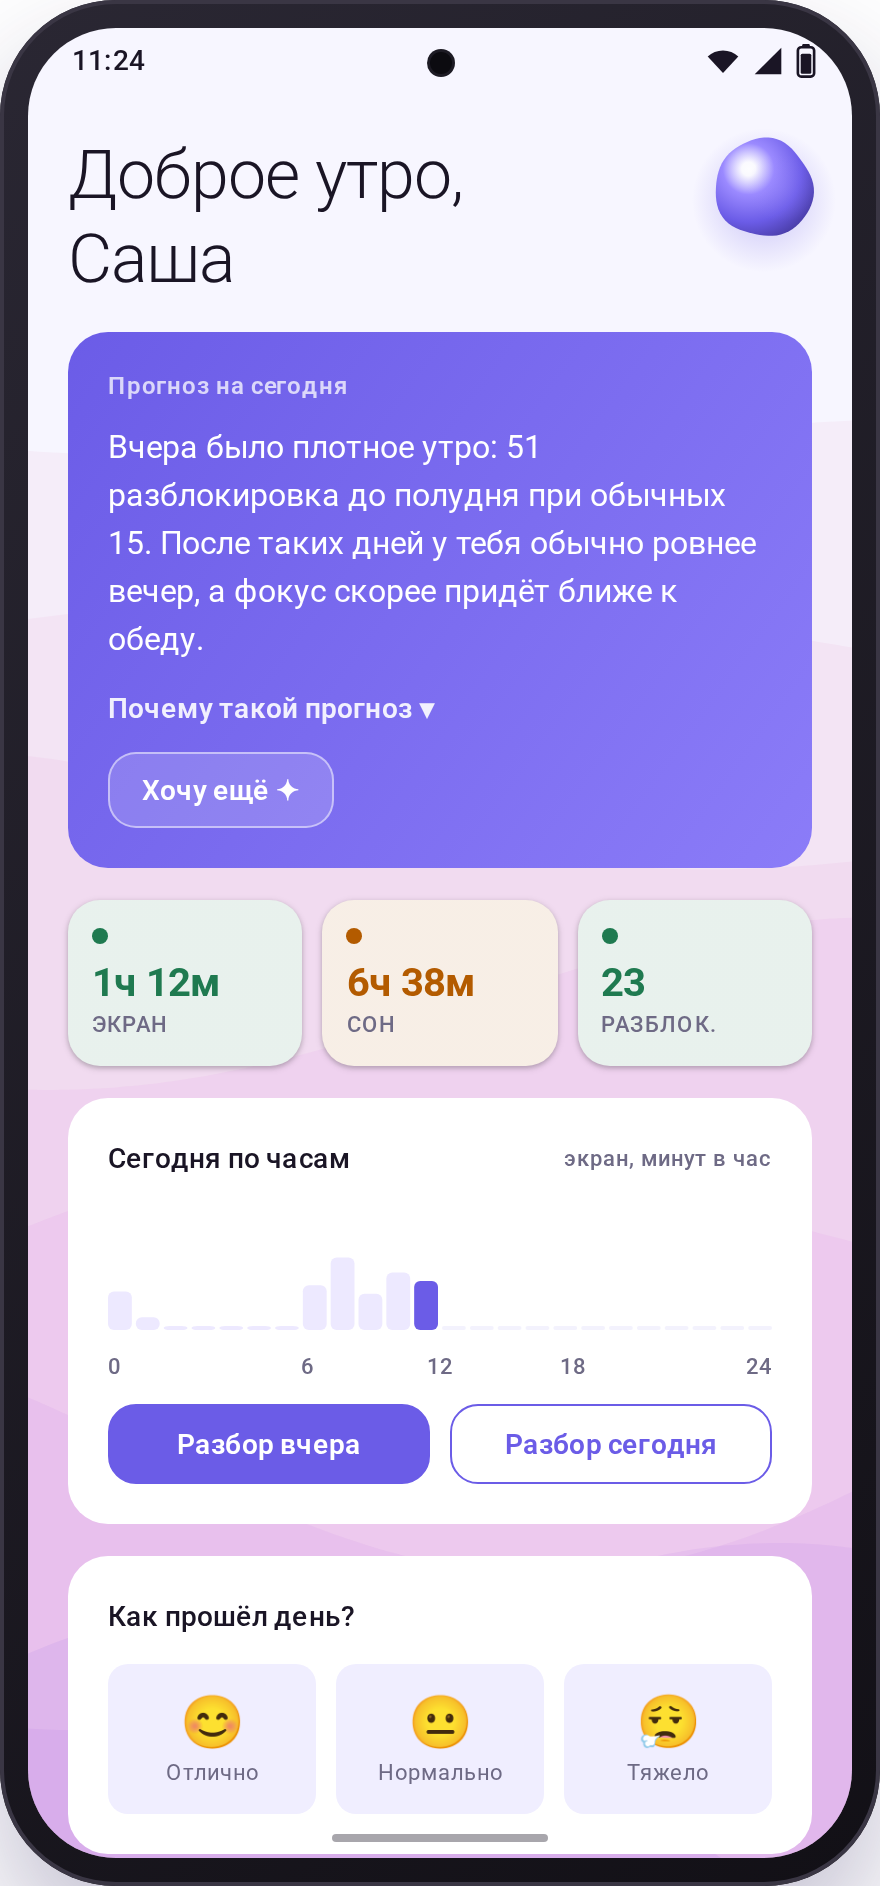
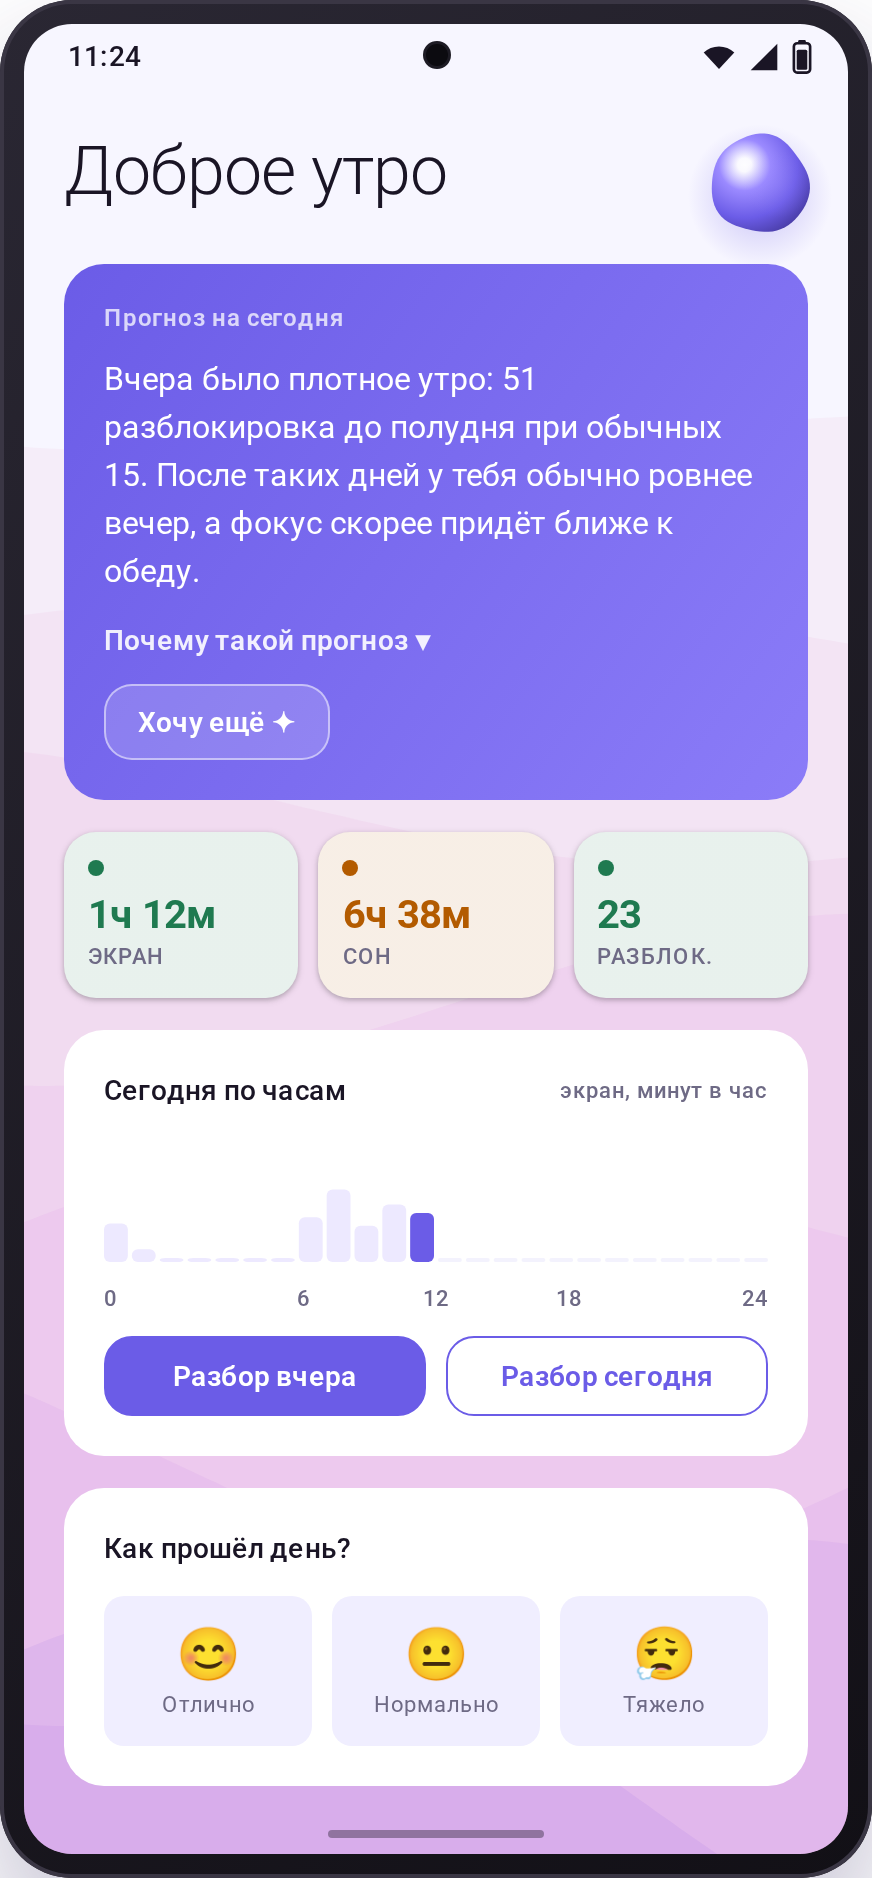
Landing: real-looking home screen instead of the SVG mock
- phone frame less rounded (36/24 px), greeting without a name
- index.html shows web/screens/home-phone.png (mock data only) at 260px

Changed region(s): [[0.0, 0.0, 1.0, 1.0], [0.4644, 0.0, 0.5264, 0.0618], [0.805, 0.0, 0.836, 0.0309]]

diff --git a/web/index.html b/web/index.html
@@ -241,7 +241,9 @@
     }
 
     .phone {
-      width: 240px;
+      width: 260px;
+      max-width: 72vw;
+      height: auto;
       filter: drop-shadow(var(--shadow-lg));
       transform: rotateX(4deg);
     }
@@ -562,35 +564,9 @@
 
 <!-- PHONE MOCKUP -->
 <div class="phone-wrap reveal" style="--reveal-delay: 0.1s">
-  <svg class="phone" viewBox="0 0 240 480" fill="none" xmlns="http://www.w3.org/2000/svg">
-    <rect x="2" y="2" width="236" height="476" rx="36" fill="white" stroke="#E4E4E7" stroke-width="2"/>
-    <rect x="80" y="8" width="80" height="20" rx="10" fill="#F4F4F5"/>
-    <rect x="12" y="40" width="216" height="392" rx="24" fill="#F7F6FF"/>
-    <rect x="24" y="60" width="192" height="160" rx="16" fill="white"/>
-    <rect x="40" y="76" width="60" height="8" rx="4" fill="#E4E4E7"/>
-    <rect x="40" y="96" width="160" height="8" rx="4" fill="#18181B"/>
-    <rect x="40" y="110" width="140" height="8" rx="4" fill="#18181B"/>
-    <rect x="40" y="124" width="100" height="8" rx="4" fill="#6B5CE7" opacity="0.7"/>
-    <rect x="40" y="146" width="160" height="1" rx="0.5" fill="#F4F4F5"/>
-    <rect x="40" y="158" width="50" height="18" rx="9" fill="#EDE9FF"/>
-    <rect x="96" y="158" width="56" height="18" rx="9" fill="#EDE9FF"/>
-    <rect x="40" y="182" width="176" height="8" rx="4" fill="#A1A1AA"/>
-    <rect x="24" y="236" width="192" height="80" rx="16" fill="white"/>
-    <rect x="40" y="252" width="80" height="8" rx="4" fill="#18181B"/>
-    <rect x="40" y="268" width="120" height="8" rx="4" fill="#A1A1AA"/>
-    <rect x="40" y="288" width="48" height="18" rx="9" fill="#6B5CE7"/>
-    <rect x="96" y="288" width="48" height="18" rx="9" fill="#F4F4F5"/>
-    <rect x="152" y="288" width="48" height="18" rx="9" fill="#F4F4F5"/>
-    <rect x="24" y="332" width="88" height="88" rx="16" fill="white"/>
-    <rect x="124" y="332" width="88" height="88" rx="16" fill="white"/>
-    <rect x="40" y="350" width="28" height="28" rx="8" fill="#EDE9FF"/>
-    <rect x="40" y="384" width="56" height="7" rx="3.5" fill="#18181B"/>
-    <rect x="40" y="397" width="40" height="7" rx="3.5" fill="#A1A1AA"/>
-    <rect x="140" y="350" width="28" height="28" rx="8" fill="#EDE9FF"/>
-    <rect x="140" y="384" width="56" height="7" rx="3.5" fill="#18181B"/>
-    <rect x="140" y="397" width="36" height="7" rx="3.5" fill="#A1A1AA"/>
-    <rect x="88" y="448" width="64" height="4" rx="2" fill="#D4D4D8"/>
-  </svg>
+  <!-- Home screen on mock data: web/screens/build.py → render.cjs -->
+  <img class="phone" src="screens/home-phone.png" width="436" height="938"
+       alt="Главный экран Companion: утренний прогноз, экран, сон и разблокировки, день по часам и вечерний чек-ин" />
 </div>
 
 <!-- FEATURES -->

diff --git a/web/screens/home.html b/web/screens/home.html
@@ -76,10 +76,10 @@
   /* Framed variant: ?frame=1 */
   .phone { display: none; }
   body.framed { padding: 40px; }
-  body.framed .phone { display: block; position: relative; width: 440px; height: 943px; border-radius: 58px; padding: 14px;
+  body.framed .phone { display: block; position: relative; width: 436px; height: 939px; border-radius: 36px; padding: 12px;
                         background: linear-gradient(145deg, #2a2733, #121016); box-shadow: 0 0 0 2px #3a3644 inset, 0 30px 60px rgba(40,28,90,.28); }
-  body.framed .screen { border-radius: 44px; }
-  body.framed .camera { position: absolute; top: 12px; left: 50%; width: 11px; height: 11px; margin-left: -5.5px; border-radius: 50%;
+  body.framed .screen { border-radius: 24px; }
+  body.framed .camera { position: absolute; top: 10px; left: 50%; width: 11px; height: 11px; margin-left: -5.5px; border-radius: 50%;
                          background: #0c0b10; box-shadow: 0 0 0 1.5px #1d1b24; z-index: 3; }
 </style>
 </head>
@@ -92,7 +92,7 @@
   <div class="camera"></div>
   <div class="content">
     <div class="top">
-      <div class="greet">Доброе утро,<br>Саша</div>
+      <div class="greet">Доброе утро</div>
       <div class="orb-box"><svg class="orb" width="108" height="108" viewBox="-30 -30 108 108">
   <defs>
     <radialGradient id="glow" gradientUnits="userSpaceOnUse" cx="24.0" cy="30.12" r="36.002333615480175">

diff --git a/web/screens/build.py b/web/screens/build.py
@@ -13,7 +13,7 @@ import math, os
 # ── Mock data (a calm-ish late morning of a made-up person) ─────────────────
 MOCK = {
     "clock": "11:24",
-    "greeting": "Доброе утро,<br>Саша",
+    "greeting": "Доброе утро",
     "forecast": ("Вчера было плотное утро: 51 разблокировка до полудня при обычных 15. "
                  "После таких дней у тебя обычно ровнее вечер, а фокус скорее придёт ближе к обеду."),
     # (label, value text, level) — level colours as HealthLevel on the light theme
@@ -201,10 +201,10 @@ def build():
   /* Framed variant: ?frame=1 */
   .phone {{ display: none; }}
   body.framed {{ padding: 40px; }}
-  body.framed .phone {{ display: block; position: relative; width: {W + 28}px; height: {H + 28}px; border-radius: 58px; padding: 14px;
+  body.framed .phone {{ display: block; position: relative; width: {W + 24}px; height: {H + 24}px; border-radius: 36px; padding: 12px;
                         background: linear-gradient(145deg, #2a2733, #121016); box-shadow: 0 0 0 2px #3a3644 inset, 0 30px 60px rgba(40,28,90,.28); }}
-  body.framed .screen {{ border-radius: 44px; }}
-  body.framed .camera {{ position: absolute; top: 12px; left: 50%; width: 11px; height: 11px; margin-left: -5.5px; border-radius: 50%;
+  body.framed .screen {{ border-radius: 24px; }}
+  body.framed .camera {{ position: absolute; top: 10px; left: 50%; width: 11px; height: 11px; margin-left: -5.5px; border-radius: 50%;
                          background: #0c0b10; box-shadow: 0 0 0 1.5px #1d1b24; z-index: 3; }}
 </style>
 </head>
